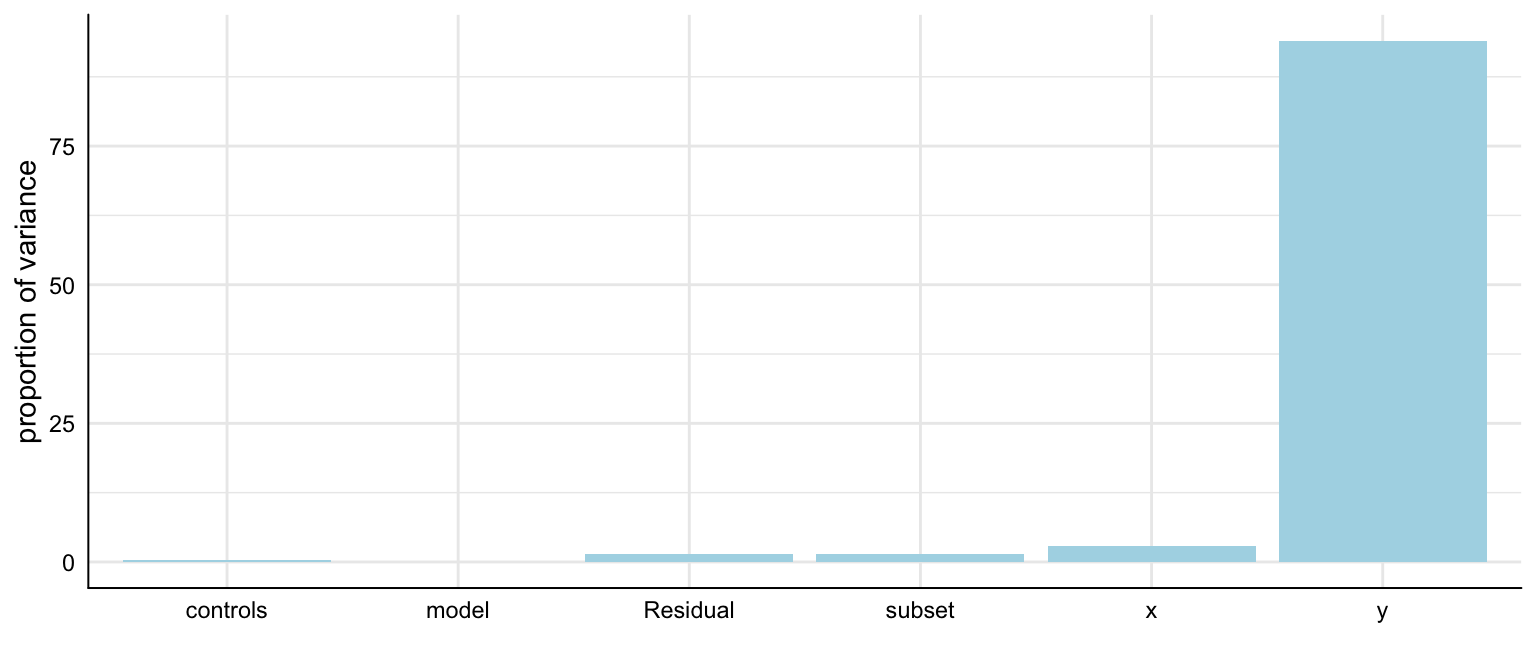
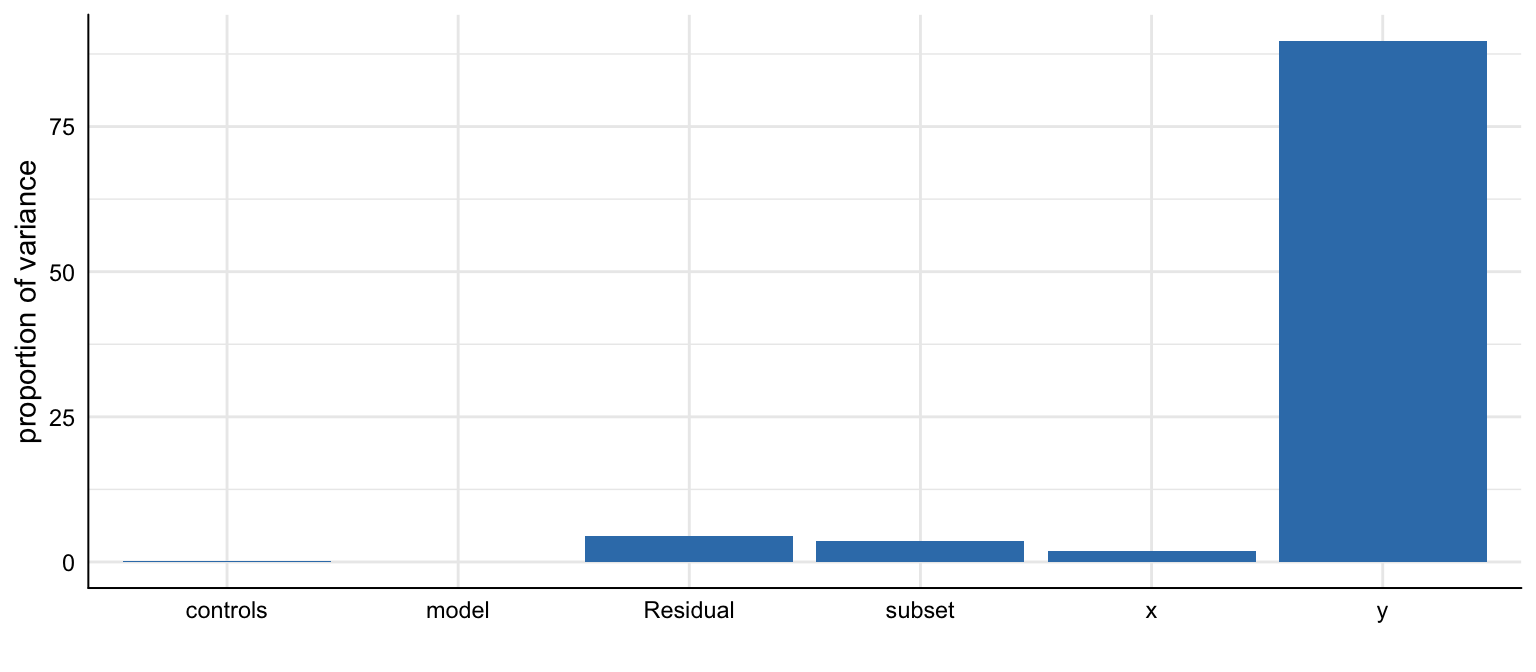
Update README, again. :(

Changed region(s): [[0.0312, 0.0625, 1.0, 0.8438], [0.0312, 0.5938, 0.0625, 0.6562], [0.0312, 0.375, 0.0625, 0.4375]]

diff --git a/README.md b/README.md
@@ -76,7 +76,7 @@ results <- run_specs(df = example_data,
                                    group2 = unique(example_data$group2)))
 # Check results
 results
-#> # A tibble: 288 x 9
+#> # A tibble: 384 x 9
 #>    x     y     model  controls estimate std.error statistic  p.value subset
 #>    <chr> <chr> <chr>  <chr>       <dbl>     <dbl>     <dbl>    <dbl> <chr> 
 #>  1 x1    y1    lm     c1 + c2     4.95      0.525     9.43  3.11e-18 group…
@@ -89,7 +89,7 @@ results
 #>  8 x2    y2    mymod… c1 + c2     0.985     0.324     3.04  2.62e- 3 group…
 #>  9 x1    y1    lm     c1          5.53      0.794     6.97  2.95e-11 group…
 #> 10 x2    y1    lm     c1          8.07      0.557    14.5   6.90e-35 group…
-#> # … with 278 more rows
+#> # … with 374 more rows
 ```
 
 In a final step, we can use the function `plot_specs()` to produce a
@@ -114,12 +114,12 @@ variance_specs(results)
 #> # A tibble: 6 x 4
 #>   grp         vcov     icc percent
 #>   <chr>      <dbl>   <dbl>   <dbl>
-#> 1 subset    0.303  0.0138    1.38 
-#> 2 controls  0.0634 0.00288   0.288
+#> 1 subset    0.795  0.0363    3.63 
+#> 2 controls  0.0497 0.00227   0.227
 #> 3 model     0      0         0    
-#> 4 y        20.7    0.940    94.0  
-#> 5 x         0.651  0.0296    2.96 
-#> 6 Residual  0.301  0.0137    1.37
+#> 4 y        19.7    0.898    89.8  
+#> 5 x         0.430  0.0196    1.96 
+#> 6 Residual  0.963  0.0439    4.39
 
 # Plot decomposition
 plot_variance(results)
@@ -144,7 +144,7 @@ citation("specr")
 #> 
 #>   Masur, Philipp K. & Scharkow, M. (2019). specr: Statistical
 #>   functions for conducting specification curve analyses. Available
-#>   from https://github.com/masurp/specr
+#>   from https://github.com/masurp/specr.
 #> 
 #> A BibTeX entry for LaTeX users is
 #> 
